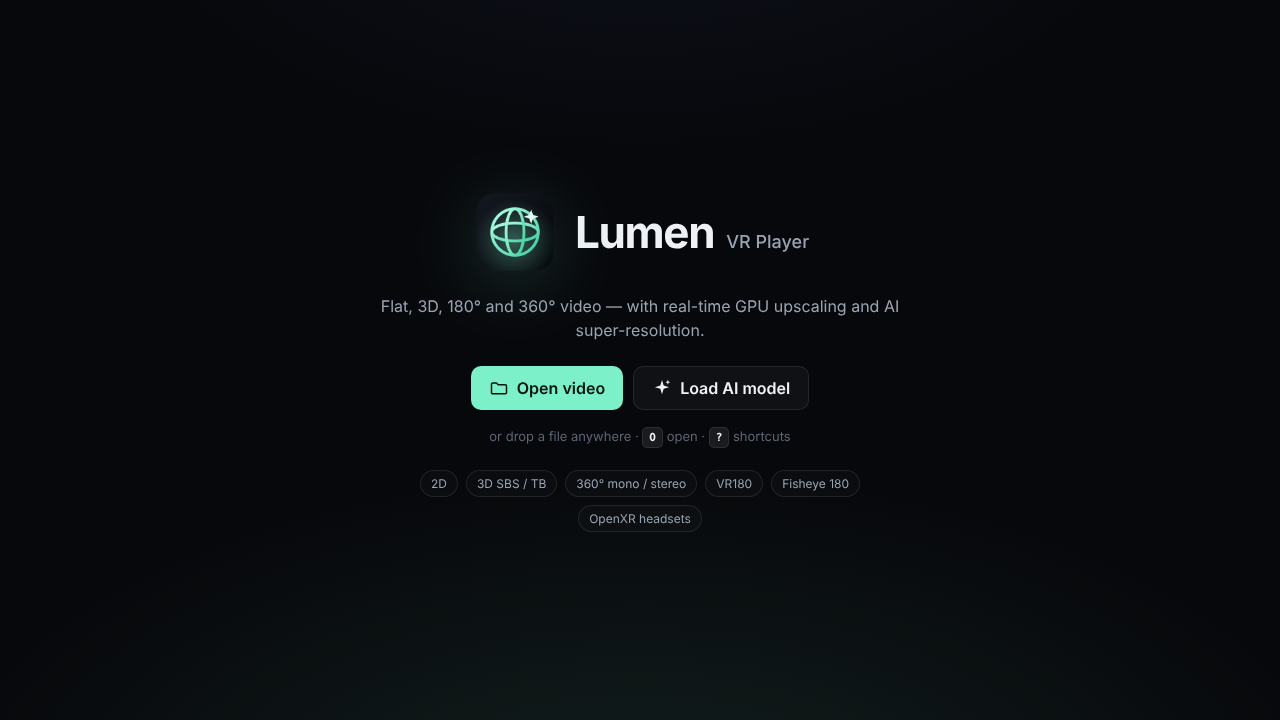
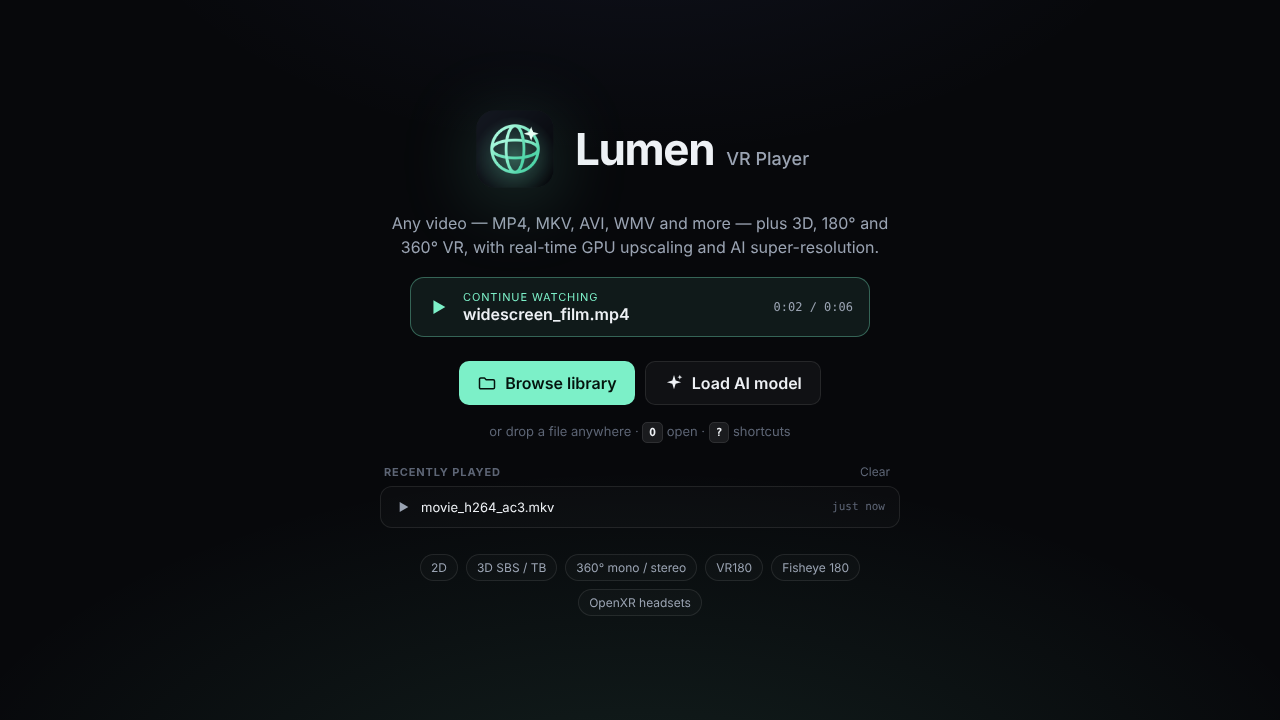
v1.4.0: Home button, continue watching, recently played
- Home button (and Backspace / Android Back) returns to the start screen
  to choose another video; playback pauses and position is kept
- Start screen shows Continue watching and a Recently played list that
  reopens videos where you left off
- Works on desktop, server/browser and Android

Claude-Session: https://claude.ai/code/session_01Xvta371Fmg1tzXLfEEJRNr

diff --git a/src/app.js b/src/app.js
@@ -175,6 +175,7 @@ async function playItem(item, { autoplay = true, force = null, at = 0 } = {}) {
   }, { once: true });
   renderQueue();
   saveQueueState();
+  addRecent(item);
 }
 
 /** Seek on the full-length timeline, restarting the FFmpeg stream when needed. */
@@ -788,6 +789,7 @@ $('panelClose').onclick = () => { $('panel').hidden = true; };
 
 // Transport
 function togglePlay() {
+  if (!document.body.classList.contains('loaded') && cur.item) return resumePlayer();
   if (!video.getAttribute('src')) {
     if (queue.items.length) return playIndex(queue.index >= 0 ? queue.index : queue.nextIndex());
     return openDialog();
@@ -989,6 +991,8 @@ window.addEventListener('keydown', (e) => {
   if (e.target.matches('input[type=text], input[type=search], select') || e.ctrlKey || e.metaKey || e.altKey) return;
   const k = e.key;
   const handled = true;
+  const onHome = !document.body.classList.contains('loaded');
+  if (onHome && !['o', 'O', '?', ' ', 'Escape', 'k', 'K'].includes(k)) return;
   switch (k) {
     case ' ': case 'k': case 'K': togglePlay(); break;
     case 'ArrowLeft': if (e.shiftKey && zoom > 1) panBy(60, 0); else seekBy(-5); break;
@@ -1008,6 +1012,7 @@ window.addEventListener('keydown', (e) => {
     case 'h': case 'H': $('shuffleBtn').click(); break;
     case 't': case 'T': $('repeatBtn').click(); break;
     case 'q': case 'Q': toggleQueue(); break;
+    case 'Backspace': goHome(); break;
     case 'f': case 'F': toggleFullscreen(); break;
     case 'o': case 'O': openDialog(); break;
     case 'u': case 'U': setUpscale(UPS[(UPS.findIndex((u) => u.v === S.upscale) + 1) % UPS.length].v); break;
@@ -1042,6 +1047,96 @@ function toast(msg, ms = 1800) {
   toastTimer = setTimeout(() => t.classList.remove('show'), ms);
 }
 function sleep(ms) { return new Promise((r) => setTimeout(r, ms)); }
+
+
+// ------------------------------------------------------------------------------------------------
+// Home / start screen: go back to pick another video, resume, recently played
+const RECENT_MAX = 12;
+const itemKey = (it) => it.path || it.lib || it.url || it.name;
+function addRecent(item) {
+  if (!item || item.file) return;                     // files picked from the device can't be reopened later
+  const entry = { name: item.name, path: item.path, lib: item.lib, url: item.url && !String(item.url).startsWith('blob:') ? item.url : undefined, at: Date.now() };
+  if (!entry.path && !entry.lib && !entry.url) return;
+  const list = load('lumen.recent', []).filter((r) => itemKey(r) !== itemKey(entry));
+  list.unshift(entry);
+  save('lumen.recent', list.slice(0, RECENT_MAX));
+}
+function savePosition() {
+  if (!cur.item || !totalTime()) return;
+  const pos = load('lumen.positions', {});
+  const t = curTime(), d = totalTime();
+  const k = itemKey(cur.item);
+  if (t > 5 && t < d - 10) pos[k] = Math.round(t); else delete pos[k];   // forget finished videos
+  const keys = Object.keys(pos);
+  if (keys.length > 200) delete pos[keys[0]];
+  save('lumen.positions', pos);
+}
+setInterval(() => { if (!video.paused) savePosition(); }, 5000);
+video.addEventListener('pause', savePosition);
+
+const ago = (ms) => {
+  const m = Math.round((Date.now() - ms) / 60000);
+  if (m < 1) return 'just now';
+  if (m < 60) return m + ' min ago';
+  const h = Math.round(m / 60);
+  if (h < 24) return h + ' h ago';
+  const d = Math.round(h / 24);
+  return d === 1 ? 'yesterday' : d + ' days ago';
+};
+
+function renderHome() {
+  // Resume the video that's loaded right now
+  const hasCurrent = !!(cur.item && video.getAttribute('src'));
+  $('resumeBtn').hidden = !hasCurrent;
+  if (hasCurrent) {
+    $('resumeName').textContent = cur.item.name;
+    $('resumeTime').textContent = totalTime() ? `${fmt(curTime())} / ${fmt(totalTime())}` : '';
+  }
+  // Recently played (that this device can reopen)
+  const canReopen = (r) => (r.path && host) || (r.lib && server) || r.url;
+  const list = load('lumen.recent', []).filter(canReopen).filter((r) => !hasCurrent || itemKey(r) !== itemKey(cur.item));
+  const pos = load('lumen.positions', {});
+  $('recent').hidden = !list.length;
+  const ul = $('recentList');
+  ul.innerHTML = '';
+  for (const r of list.slice(0, 8)) {
+    const li = document.createElement('li');
+    const p = pos[itemKey(r)];
+    li.innerHTML = `<svg><use href="#i-play"/></svg><span class="nm" title="${esc(r.name)}">${esc(r.name)}</span><span class="meta">${p ? 'at ' + fmt(p) + ' · ' : ''}${ago(r.at)}</span>`;
+    li.onclick = () => openRecent(r);
+    ul.append(li);
+  }
+}
+
+async function openRecent(r) {
+  const item = { name: r.name, path: r.path, lib: r.lib, url: r.url };
+  const at = load('lumen.positions', {})[itemKey(r)] || 0;
+  const i = queue.add([item], { after: queue.index >= 0 });
+  queue.select(i);
+  await playItem(queue.current, { at });
+}
+
+function goHome() {
+  if (!document.body.classList.contains('loaded')) return;
+  savePosition();
+  video.pause();
+  if (document.fullscreenElement) document.exitFullscreen().catch(() => {});
+  for (const id of ['panel', 'queue', 'library', 'help']) $(id).hidden = true;
+  closePops();
+  if (xr.active) xr.exit();
+  document.body.classList.remove('loaded', 'idle');
+  renderHome();
+}
+
+function resumePlayer() {
+  if (!cur.item) return;
+  document.body.classList.add('loaded');
+  video.play().catch(() => {});
+}
+
+$('homeBtn').onclick = goHome;
+$('resumeBtn').onclick = resumePlayer;
+$('recentClear').onclick = () => { save('lumen.recent', []); renderHome(); };
 
 // ------------------------------------------------------------------------------------------------
 // Queue panel & saved playlists
@@ -1435,9 +1530,11 @@ window.__lumenBack = () => {
   }
   if (document.fullscreenElement) { document.exitFullscreen(); return true; }
   if (zoom > 1) { resetZoom(false); return true; }
+  if (document.body.classList.contains('loaded')) { goHome(); return true; }
   return false;
 };
 
+renderHome();
 syncUI();
 if (S.upscale === 'ai') { S.upscale = 'gpu'; syncUI(); }   // AI is re-enabled explicitly each session (model load can be slow)
 

diff --git a/src/index.html b/src/index.html
@@ -31,6 +31,7 @@
   <symbol id="i-list" viewBox="0 0 24 24"><path d="M4 6h12M4 11h12M4 16h7" stroke="currentColor" stroke-width="1.9" stroke-linecap="round"/><path d="M15 14v6l5-3z" fill="currentColor"/></symbol>
   <symbol id="i-plus" viewBox="0 0 24 24"><path d="M12 5v14M5 12h14" stroke="currentColor" stroke-width="2" stroke-linecap="round"/></symbol>
   <symbol id="i-grip" viewBox="0 0 24 24"><circle cx="9" cy="7" r="1.4" fill="currentColor"/><circle cx="15" cy="7" r="1.4" fill="currentColor"/><circle cx="9" cy="12" r="1.4" fill="currentColor"/><circle cx="15" cy="12" r="1.4" fill="currentColor"/><circle cx="9" cy="17" r="1.4" fill="currentColor"/><circle cx="15" cy="17" r="1.4" fill="currentColor"/></symbol>
+  <symbol id="i-home" viewBox="0 0 24 24"><path d="M4 11.2 12 4.5l8 6.7V19a1.5 1.5 0 0 1-1.5 1.5H15v-5.5H9v5.5H5.5A1.5 1.5 0 0 1 4 19z" fill="none" stroke="currentColor" stroke-width="1.8" stroke-linejoin="round"/></symbol>
   <symbol id="i-close" viewBox="0 0 24 24"><path d="m6 6 12 12M18 6 6 18" stroke="currentColor" stroke-width="2" stroke-linecap="round"/></symbol>
 </svg>
 
@@ -45,19 +46,31 @@
     <h1>Lumen<span>VR Player</span></h1>
   </div>
   <p class="lede">Any video — MP4, MKV, AVI, WMV and more — plus 3D, 180° and 360° VR, with real-time GPU upscaling and AI super-resolution.</p>
+  <button id="resumeBtn" class="resume" hidden>
+    <svg><use href="#i-play"/></svg>
+    <span><small>Continue watching</small><b id="resumeName"></b></span>
+    <span class="resume-time" id="resumeTime"></span>
+  </button>
   <div class="cta">
     <button id="openBtn" class="primary"><svg><use href="#i-open"/></svg>Open videos</button>
     <button id="serverBtn" class="ghost" hidden><svg><use href="#i-sphere"/></svg>Connect to server</button>
     <button id="emptyModelBtn" class="ghost"><svg><use href="#i-spark"/></svg>Load AI model</button>
   </div>
   <p class="hint">or drop a file anywhere · <kbd>O</kbd> open · <kbd>?</kbd> shortcuts</p>
+  <section id="recent" hidden>
+    <div class="recent-head"><h2>Recently played</h2><button id="recentClear" class="link">Clear</button></div>
+    <ul id="recentList"></ul>
+  </section>
   <ul class="chips">
     <li>2D</li><li>3D SBS / TB</li><li>360° mono / stereo</li><li>VR180</li><li>Fisheye 180</li><li>OpenXR headsets</li>
   </ul>
 </section>
 
 <header id="top">
-  <div class="title" id="title"></div>
+  <div class="title-wrap">
+    <button id="homeBtn" class="icon sm home" title="Home: choose another video (Backspace)"><svg><use href="#i-home"/></svg></button>
+    <div class="title" id="title"></div>
+  </div>
   <div class="badges">
     <span class="badge" id="fmtBadge"></span>
     <span class="badge accent" id="upBadge"></span>
@@ -238,7 +251,8 @@
       <dt><kbd>H</kbd> · <kbd>T</kbd></dt><dd>Shuffle · repeat (off → all → one)</dd>
       <dt><kbd>Q</kbd></dt><dd>Queue &amp; playlists</dd>
       <dt><kbd>F</kbd> / double-click</dt><dd>Fullscreen</dd>
-      <dt><kbd>O</kbd></dt><dd>Open video</dd>
+      <dt><kbd>O</kbd></dt><dd>Open videos</dd>
+      <dt><kbd>Backspace</kbd></dt><dd>Home: back to the start screen</dd>
       <dt><kbd>P</kbd></dt><dd>Cycle video format</dd>
       <dt><kbd>U</kbd></dt><dd>Cycle upscaling Off → GPU → AI</dd>
       <dt><kbd>C</kbd></dt><dd>A/B compare (drag the divider)</dd>

diff --git a/src/styles.css b/src/styles.css
@@ -60,6 +60,9 @@ button.ghost.sm { padding: 7px 11px; font-size: 13px; font-weight: 500; border-r
 body.zoomed #stage { cursor: grab; }
 body.zoomed #stage.dragging { cursor: grabbing; }
 body:not(.loaded) #top { display: none; }
+.title-wrap { display: flex; align-items: center; gap: 6px; min-width: 0; }
+button.home { pointer-events: auto; background: rgba(0,0,0,.35); border: 1px solid var(--line); }
+button.home:hover { background: rgba(255,255,255,.14); }
 .title { font-weight: 600; font-size: 14px; white-space: nowrap; overflow: hidden; text-overflow: ellipsis; text-shadow: 0 1px 3px #000; }
 .badges { display: flex; gap: 6px; }
 .badge { font: 600 11px/1 ui-monospace, "SF Mono", Menlo, Consolas, monospace; padding: 5px 8px; border-radius: 6px; background: rgba(0,0,0,.45); border: 1px solid var(--line); color: var(--dim); letter-spacing: .02em; }
@@ -248,3 +251,26 @@ button.primary.sm { padding: 7px 12px; font-size: 13px; border-radius: 8px; }
   .pop { right: -40px; }
 }
 @media (pointer: coarse) { .hint { display: none; } }
+
+/* ---------- start screen: resume & recent ---------- */
+#empty { overflow-y: auto; }
+.resume { display: flex; align-items: center; gap: 14px; width: min(460px, 92vw); padding: 12px 16px; border-radius: 14px; cursor: pointer; text-align: left;
+  background: rgba(124,240,200,.08); border: 1px solid rgba(124,240,200,.35); color: var(--ink); transition: background .15s, transform .12s; }
+.resume:hover { background: rgba(124,240,200,.14); transform: translateY(-1px); }
+.resume > svg { width: 22px; height: 22px; color: var(--accent); }
+.resume span:not(.resume-time) { display: flex; flex-direction: column; min-width: 0; flex: 1; }
+.resume small { font-size: 11px; text-transform: uppercase; letter-spacing: .08em; color: var(--accent); }
+.resume b { font-weight: 600; white-space: nowrap; overflow: hidden; text-overflow: ellipsis; }
+.resume-time { font: 12px ui-monospace, Menlo, Consolas, monospace; color: var(--dim); }
+#recent { width: min(520px, 92vw); margin-top: 6px; }
+.recent-head { display: flex; align-items: baseline; justify-content: space-between; padding: 0 4px 6px; }
+.recent-head h2 { margin: 0; font-size: 11px; text-transform: uppercase; letter-spacing: .08em; color: var(--faint); font-weight: 700; }
+button.link { border: 0; background: none; color: var(--faint); cursor: pointer; font-size: 12px; }
+button.link:hover { color: var(--ink); }
+#recentList { list-style: none; margin: 0; padding: 4px; border-radius: 12px; border: 1px solid var(--line); background: rgba(255,255,255,.02); max-height: 230px; overflow-y: auto; }
+#recentList li { display: flex; align-items: center; gap: 10px; padding: 8px 10px; border-radius: 8px; cursor: pointer; font-size: 13px; text-align: left; }
+#recentList li:hover { background: rgba(255,255,255,.06); }
+#recentList .nm { flex: 1; overflow: hidden; text-overflow: ellipsis; white-space: nowrap; }
+#recentList .meta { color: var(--faint); font: 11px ui-monospace, Menlo, Consolas, monospace; white-space: nowrap; }
+#recentList svg { width: 16px; height: 16px; color: var(--dim); }
+@media (max-height: 700px) { #empty { justify-content: flex-start; padding-top: 40px; } .chips { display: none; } }

diff --git a/README.md b/README.md
@@ -124,6 +124,7 @@ sudo apt install ./dist/lumen-vr-player_1.0.0_amd64.deb
 | Key | Action |
 |---|---|
 | `Space` / `K` | Play / pause |
+| `Backspace` / Home button | Back to the start screen to pick another video (Continue watching · Recently played) |
 | `←` `→` / `J` `L` | Seek 5 s / 10 s |
 | `,` `.` | Step one frame back/forward |
 | `↑` `↓` · `M` | Volume · mute |
